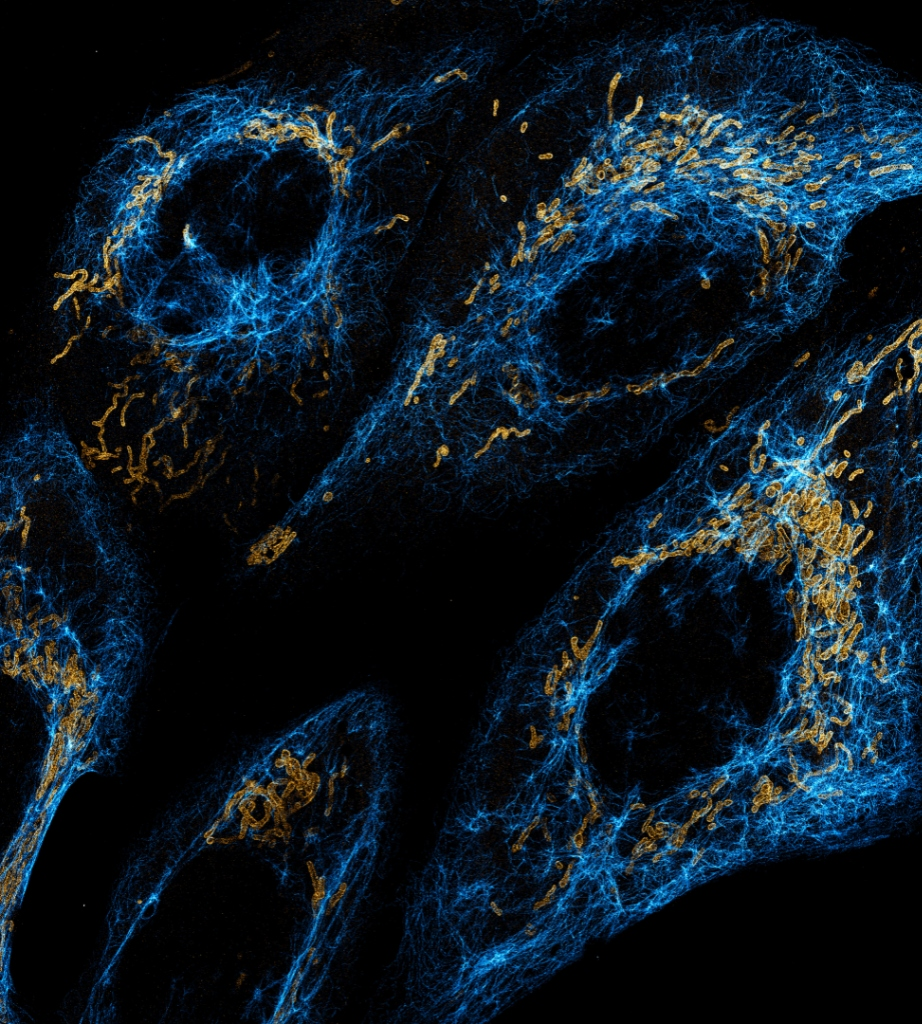
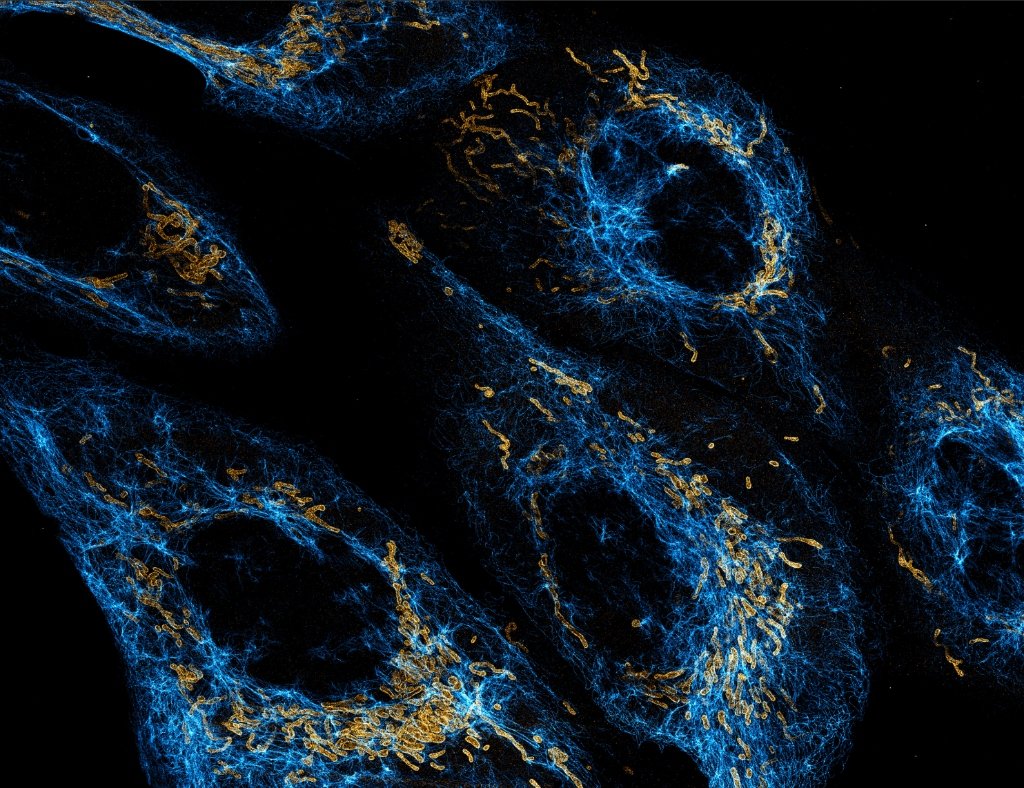
style: use pre-rotated hero image and adjust layout

diff --git a/src/components/landing/Hero.tsx b/src/components/landing/Hero.tsx
@@ -17,14 +17,14 @@ export function Hero({ articlesCount, webinarsCount, usersCount, modulesCount }:
 
     return (
         <section className="relative min-h-screen flex items-center overflow-hidden bg-black px-8 md:px-20">
-            {/* Background Image with Blending and Rotation */}
-            <div className="absolute top-0 right-0 h-full w-full md:w-[75%] z-0 pointer-events-none overflow-hidden">
-                <div className="relative h-full w-full opacity-60 [mask-image:linear-gradient(to_right,transparent,black_10%)]">
+            {/* Background Image with Blending (No Rotation) */}
+            <div className="absolute top-0 right-0 h-full w-[90%] z-0 pointer-events-none overflow-hidden">
+                <div className="relative h-full w-full opacity-60 [mask-image:linear-gradient(to_right,transparent,black_20%)]">
                     <Image
                         src="/hero-microscopy.jpg"
                         alt="Nanoscopy Background"
                         fill
-                        className="object-cover object-center rotate-90 scale-125 translate-x-[10%]"
+                        className="object-contain object-right"
                         priority
                     />
                 </div>
